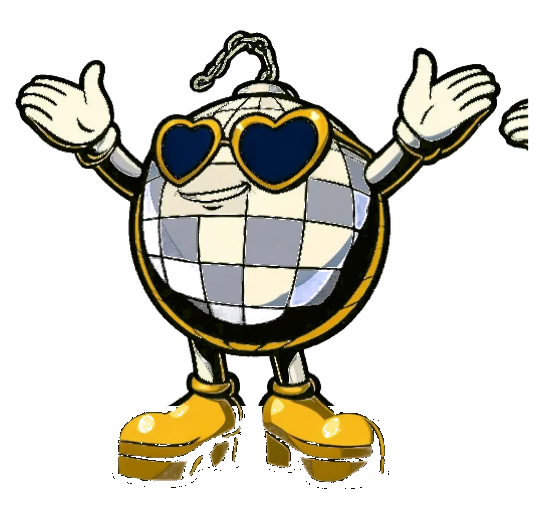
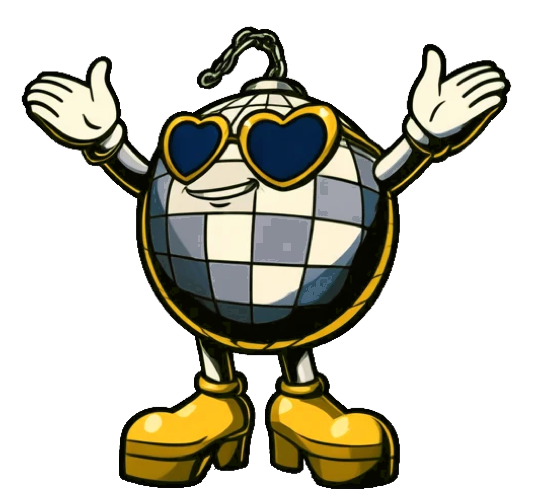
Mira : détourage par remplissage (plus de trous dans la boule ni les chaussures), ombres retirées, couleurs alignées sur la frame 0

Changed region(s): [[0.03, 0.0303, 0.9888, 1.0]]

diff --git a/tools/asset_prep/Main.cpp b/tools/asset_prep/Main.cpp
@@ -26,6 +26,14 @@
 // hueShift degrees, its saturation and brightness scaled — a character drawn
 // blue brought to the plugin's own colour; outlines, whites, creams untouched.
 //
+// --flood-key (with --key-flat): only the background reached from the cell's
+// border (and enclosed patches of plain background, --pocket-min px and more)
+// is keyed; the rest is the character, opaque, whatever its colour (a dark
+// drawing on a dark background keeps its pixels). --drop-ground-shadow
+// <hueFrom>,<hueTo>: the shadows reached go (dark, saturated, in that hue
+// range). --match-colours: each frame's gold / deep blue / cool greys /
+// creams brought to the first frame's. --contact-magenta: holes show.
+//
 // --drop-hue <hueFrom>,<hueTo>,<minSat>,<bottomFraction>: in the bottom
 // fraction of each frame, every pixel whose hue lies in [hueFrom, hueTo] with
 // at least minSat saturation becomes transparent, and so does every dark
@@ -34,6 +42,7 @@
 // draws its own.
 
 #include <juce_graphics/juce_graphics.h>
+#include <array>
 #include <iostream>
 
 namespace
@@ -73,34 +82,142 @@ juce::Image keyGreen (const juce::Image& src)
 /** Keys out a flat background colour (any hue): distance in RGB from `bg`;
     below `lo` transparent, above `hi` opaque, soft in between (keeps soft
     ground shadows as translucency). */
+int pocketMinPixels = 80;  // --pocket-min <n>: an enclosed patch of plain background this big (or more) is keyed too
+bool floodKey = false;      // --flood-key: only the background reached from the frame's border is keyed (see keyColour)
+bool dropGroundShadow = false; // --drop-ground-shadow <hueFrom>,<hueTo>: with --flood-key, the ground shadows go (the plugin draws its own):
+float shadowHueFrom = 0.0f, shadowHueTo = 0.0f; // background-tinted ones, and dark saturated ones of this hue range (degrees)
+
 juce::Image keyColour (const juce::Image& src, juce::Colour bg, float lo = 34.0f, float hi = 78.0f)
 {
     juce::Image out (juce::Image::ARGB, src.getWidth(), src.getHeight(), true);
     const juce::Image::BitmapData in (src, juce::Image::BitmapData::readOnly);
     juce::Image::BitmapData dst (out, juce::Image::BitmapData::writeOnly);
-    for (int y = 0; y < src.getHeight(); ++y)
-        for (int x = 0; x < src.getWidth(); ++x)
+    const int w = src.getWidth(), h = src.getHeight();
+    auto distance = [&in, bg] (int x, int y)
+    {
+        const auto c = in.getPixelColour (x, y);
+        const float dr = (float) c.getRed() - (float) bg.getRed(), dg = (float) c.getGreen() - (float) bg.getGreen(), db = (float) c.getBlue() - (float) bg.getBlue();
+        return std::sqrt (dr * dr + dg * dg + db * db);
+    };
+    // Ground shadows / painted strokes (background-hued, darker, desaturated)
+    auto isShadow = [bg] (juce::Colour c)
+    {
+        const float lumC = 0.3f * c.getRed() + 0.59f * c.getGreen() + 0.11f * c.getBlue();
+        const float lumB = 0.3f * bg.getRed() + 0.59f * bg.getGreen() + 0.11f * bg.getBlue();
+        float hueDiff = std::abs (c.getHue() - bg.getHue());
+        hueDiff = juce::jmin (hueDiff, 1.0f - hueDiff);
+        return lumC < lumB && hueDiff < 0.14f && c.getSaturation() < 0.45f;
+    };
+    // --flood-key: the background is what can be reached from the border
+    // through background-like pixels (close to it, or its shadows), plus the
+    // enclosed pockets of plain background (between an arm and the body).
+    // Everything else is the character, opaque whatever its colour: a dark
+    // drawing on a dark background (slate facets on dark green) keeps every
+    // pixel.
+    std::vector<char> reach;
+    if (floodKey)
+    {
+        reach.assign ((size_t) (w * h), 0);
+        auto groundShadow = [] (juce::Colour c)
+        {
+            const float hue = c.getHue() * 360.0f;
+            return dropGroundShadow && hue >= shadowHueFrom && hue <= shadowHueTo && c.getSaturation() > 0.3f && c.getBrightness() < 0.3f;
+        };
+        // (a near-black pixel is the drawing's outline, whatever its tint: never background)
+        auto passable = [&] (int x, int y)
         {
             const auto c = in.getPixelColour (x, y);
-            const float dr = (float) c.getRed() - (float) bg.getRed(), dg = (float) c.getGreen() - (float) bg.getGreen(),
-                        db = (float) c.getBlue() - (float) bg.getBlue();
-            const float d = std::sqrt (dr * dr + dg * dg + db * db);
+            return distance (x, y) < hi || (isShadow (c) && c.getBrightness() > 0.15f) || groundShadow (c);
+        };
+        std::vector<int> stack;
+        auto flood = [&] (std::vector<int>& seeds)
+        {
+            while (! seeds.empty())
+            {
+                const int i = seeds.back();
+                seeds.pop_back();
+                const int x = i % w, y = i / w;
+                for (auto [nx, ny] : { std::pair { x + 1, y }, std::pair { x - 1, y }, std::pair { x, y + 1 }, std::pair { x, y - 1 } })
+                    if (nx >= 0 && ny >= 0 && nx < w && ny < h && ! reach[(size_t) (ny * w + nx)] && passable (nx, ny))
+                    {
+                        reach[(size_t) (ny * w + nx)] = 1;
+                        seeds.push_back (ny * w + nx);
+                    }
+            }
+        };
+        for (int x = 0; x < w; ++x)
+            for (int y : { 0, h - 1 })
+                if (passable (x, y) && ! reach[(size_t) (y * w + x)]) { reach[(size_t) (y * w + x)] = 1; stack.push_back (y * w + x); }
+        for (int y = 0; y < h; ++y)
+            for (int x : { 0, w - 1 })
+                if (passable (x, y) && ! reach[(size_t) (y * w + x)]) { reach[(size_t) (y * w + x)] = 1; stack.push_back (y * w + x); }
+        flood (stack);
+        // enclosed pockets: a patch of plain background (very close to it, 80 px and more)
+        std::vector<char> seen ((size_t) (w * h), 0);
+        for (int y = 0; y < h; ++y)
+            for (int x = 0; x < w; ++x)
+            {
+                const int i = y * w + x;
+                if (reach[(size_t) i] || seen[(size_t) i] || distance (x, y) >= 22.0f)
+                    continue;
+                std::vector<int> comp { i }, todo { i };
+                seen[(size_t) i] = 1;
+                while (! todo.empty())
+                {
+                    const int j = todo.back();
+                    todo.pop_back();
+                    const int jx = j % w, jy = j / w;
+                    for (auto [nx, ny] : { std::pair { jx + 1, jy }, std::pair { jx - 1, jy }, std::pair { jx, jy + 1 }, std::pair { jx, jy - 1 } })
+                        if (nx >= 0 && ny >= 0 && nx < w && ny < h && ! seen[(size_t) (ny * w + nx)] && ! reach[(size_t) (ny * w + nx)] && distance (nx, ny) < 22.0f)
+                        {
+                            seen[(size_t) (ny * w + nx)] = 1;
+                            comp.push_back (ny * w + nx);
+                            todo.push_back (ny * w + nx);
+                        }
+                }
+                if (std::getenv ("ASSET_PREP_POCKETS") != nullptr && comp.size() >= 80)
+                {
+                    int x0 = w, y0 = h, x1 = 0, y1 = 0;
+                    for (int j : comp) { x0 = juce::jmin (x0, j % w); x1 = juce::jmax (x1, j % w); y0 = juce::jmin (y0, j / w); y1 = juce::jmax (y1, j / w); }
+                    std::cerr << "pocket " << comp.size() << " px at " << x0 << "," << y0 << " - " << x1 << "," << y1 << " (cell " << w << "x" << h << ")\n";
+                }
+                if (comp.size() >= (size_t) pocketMinPixels)
+                {
+                    for (int j : comp)
+                        reach[(size_t) j] = 1;
+                    flood (comp);
+                }
+            }
+    }
+    for (int y = 0; y < h; ++y)
+        for (int x = 0; x < w; ++x)
+        {
+            const auto c = in.getPixelColour (x, y);
+            if (floodKey && ! reach[(size_t) (y * w + x)])
+            {
+                dst.setPixelColour (x, y, c); // the character
+                continue;
+            }
+            if (floodKey && dropGroundShadow)
+            {
+                const float hue = c.getHue() * 360.0f;
+                if (hue >= shadowHueFrom && hue <= shadowHueTo && c.getSaturation() > 0.3f && c.getBrightness() < 0.3f)
+                    continue;
+            }
+            const float d = distance (x, y);
             const float alpha = juce::jlimit (0.0f, 1.0f, (d - lo) / (hi - lo));
             if (alpha <= 0.0f)
                 continue;
-            // Ground shadows / painted strokes (background-hued, darker,
-            // desaturated): neutral translucent shadow instead of tinted paint
+            // shadows: a neutral translucent shadow instead of tinted paint (or nothing)
+            if (isShadow (c))
             {
+                if (floodKey && dropGroundShadow)
+                    continue;
                 const float lumC = 0.3f * c.getRed() + 0.59f * c.getGreen() + 0.11f * c.getBlue();
                 const float lumB = 0.3f * bg.getRed() + 0.59f * bg.getGreen() + 0.11f * bg.getBlue();
-                float hueDiff = std::abs (c.getHue() - bg.getHue());
-                hueDiff = juce::jmin (hueDiff, 1.0f - hueDiff);
-                if (lumC < lumB && hueDiff < 0.14f && c.getSaturation() < 0.45f)
-                {
-                    const float k = lumC / juce::jmax (1.0f, lumB);
-                    dst.setPixelColour (x, y, juce::Colours::black.withAlpha (juce::jlimit (0.0f, 0.55f, (1.0f - k) * 1.3f)));
-                    continue;
-                }
+                const float k = lumC / juce::jmax (1.0f, lumB);
+                dst.setPixelColour (x, y, juce::Colours::black.withAlpha (juce::jlimit (0.0f, 0.55f, (1.0f - k) * 1.3f)));
+                continue;
             }
             if (alpha >= 1.0f)
             {
@@ -458,6 +575,42 @@ juce::Image eraseGridLines (const juce::Image& src, juce::Colour bg)
     return img;
 }
 
+/** --flood-key: specks left on the background (texture, a shadow's rim): opaque
+    regions under `minPixels` go. */
+void dropSpecks (juce::Image& img, int minPixels)
+{
+    const int w = img.getWidth(), h = img.getHeight();
+    juce::Image::BitmapData d (img, juce::Image::BitmapData::readWrite);
+    std::vector<char> seen ((size_t) (w * h), 0);
+    for (int start = 0; start < w * h; ++start)
+    {
+        if (seen[(size_t) start] || d.getPixelColour (start % w, start / w).getAlpha() <= 24)
+            continue;
+        std::vector<int> comp { start }, todo { start };
+        seen[(size_t) start] = 1;
+        while (! todo.empty())
+        {
+            const int j = todo.back();
+            todo.pop_back();
+            const int jx = j % w, jy = j / w;
+            for (int dy = -1; dy <= 1; ++dy)
+                for (int dx = -1; dx <= 1; ++dx)
+                {
+                    const int nx = jx + dx, ny = jy + dy;
+                    if (nx >= 0 && ny >= 0 && nx < w && ny < h && ! seen[(size_t) (ny * w + nx)] && d.getPixelColour (nx, ny).getAlpha() > 24)
+                    {
+                        seen[(size_t) (ny * w + nx)] = 1;
+                        comp.push_back (ny * w + nx);
+                        todo.push_back (ny * w + nx);
+                    }
+                }
+        }
+        if ((int) comp.size() < minPixels)
+            for (int j : comp)
+                d.setPixelColour (j % w, j / w, juce::Colours::transparentBlack);
+    }
+}
+
 /** Cuts cell `index` (row by row) of a cols × rows sheet and keys it. */
 Frame cutFrame (const juce::Image& sheet, int cols, int rows, int index)
 {
@@ -488,6 +641,11 @@ Frame cutFrame (const juce::Image& sheet, int cols, int rows, int index)
         if (despill)
             despillTowards (f.image, keyFlatBackground ? sampleBackground (sheet) : juce::Colour (0xff00ff00));
         keepMainBand (f.image);
+        if (floodKey)
+        {
+            dropEdgeFragments (f.image); // (a neighbour's hand cut by the cell border)
+            dropSpecks (f.image, 400);
+        }
     }
     f.box = opaqueBounds (f.image);
     f.anchorX = headCentreX (f.image, f.box);
@@ -517,6 +675,15 @@ int main (int argc, char** argv)
     const int targetHeight = argInt (args, "--height", 560);
     keyFlatBackground = args.contains ("--key-flat");
     despill = args.contains ("--despill");
+    floodKey = args.contains ("--flood-key");
+    pocketMinPixels = argInt (args, "--pocket-min", 80);
+    if (const int si = args.indexOf ("--drop-ground-shadow"); si >= 0 && si + 1 < args.size())
+    {
+        const auto v = juce::StringArray::fromTokens (args[si + 1], ",", "");
+        dropGroundShadow = v.size() == 2;
+        shadowHueFrom = v[0].getFloatValue();
+        shadowHueTo = v[1].getFloatValue();
+    }
     autoCells = args.contains ("--auto-cells");
     cellInset = argInt (args, "--inset", 0);
     eraseGrid = args.contains ("--erase-grid");
@@ -536,7 +703,8 @@ int main (int argc, char** argv)
         outDir = cwd.getChildFile (args[0]);
         for (int i = 1; i < args.size(); ++i)
         {
-            if (args[i] == "--key-flat" || args[i] == "--despill" || args[i] == "--auto-cells" || args[i] == "--scale-to-first" || args[i] == "--erase-grid")
+            if (args[i] == "--key-flat" || args[i] == "--despill" || args[i] == "--auto-cells" || args[i] == "--scale-to-first" || args[i] == "--erase-grid" || args[i] == "--contact-magenta"
+                || args[i] == "--flood-key" || args[i] == "--match-colours")
                 continue;
             if (args[i].startsWith ("--"))
             {
@@ -712,6 +880,69 @@ int main (int argc, char** argv)
                     }
             }
         }
+        // --match-colours: every frame's main colours brought to the first frame's
+        // (sheets drawn apart come out a little different: a warmer gold, greyer
+        // facets). Classes: the gold (shoes, rim, frames), the deep blue (lenses),
+        // the cool greys (facets), the creams (gloves, light facets); per class
+        // the mean hue / saturation / brightness of this frame against frame 0,
+        // each pixel of the class moved by the difference (hue) or the ratio.
+        if (args.contains ("--match-colours"))
+        {
+            struct Stat { double h = 0, s = 0, v = 0; int n = 0; };
+            auto classOf = [] (juce::Colour c) -> int
+            {
+                if (c.getAlpha() < 200) return -1;
+                const float hue = c.getHue() * 360.0f, sat = c.getSaturation(), bri = c.getBrightness();
+                if (hue >= 30.0f && hue <= 62.0f && sat > 0.45f && bri > 0.3f) return 0; // gold
+                if (hue >= 205.0f && hue <= 250.0f && sat > 0.45f && bri > 0.15f) return 1; // lenses
+                if (hue >= 190.0f && hue <= 240.0f && sat <= 0.45f && sat > 0.08f && bri > 0.2f && bri < 0.8f) return 2; // facets
+                if (bri >= 0.75f && sat < 0.3f) return 3; // creams
+                return -1;
+            };
+            auto stats = [&] (const juce::Image& img)
+            {
+                std::array<Stat, 4> st {};
+                const juce::Image::BitmapData d (img, juce::Image::BitmapData::readOnly);
+                for (int y = 0; y < img.getHeight(); ++y)
+                    for (int x = 0; x < img.getWidth(); ++x)
+                    {
+                        const auto c = d.getPixelColour (x, y);
+                        const int k = classOf (c);
+                        if (k < 0) continue;
+                        st[(size_t) k].h += c.getHue(); st[(size_t) k].s += c.getSaturation(); st[(size_t) k].v += c.getBrightness(); ++st[(size_t) k].n;
+                    }
+                for (auto& t : st)
+                    if (t.n > 0) { t.h /= t.n; t.s /= t.n; t.v /= t.n; }
+                return st;
+            };
+            static std::array<Stat, 4> ref;
+            if (i == 0)
+                ref = stats (frame);
+            else
+            {
+                const auto st = stats (frame);
+                juce::Image::BitmapData d (frame, juce::Image::BitmapData::readWrite);
+                for (int y = 0; y < h; ++y)
+                    for (int x = 0; x < w; ++x)
+                    {
+                        const auto c = d.getPixelColour (x, y);
+                        const int k = classOf (c);
+                        if (k < 0 || st[(size_t) k].n < 50 || ref[(size_t) k].n < 50) continue;
+                        const auto& a = st[(size_t) k];
+                        const auto& r = ref[(size_t) k];
+                        // (limited: a pose shows more or less of a shaded side, the means move a little by themselves)
+                        float hue = c.getHue() + (float) juce::jlimit (-10.0 / 360.0, 10.0 / 360.0, r.h - a.h);
+                        hue -= std::floor (hue);
+                        const float sat = juce::jlimit (0.0f, 1.0f, c.getSaturation() * (float) juce::jlimit (0.8, 1.25, r.s / juce::jmax (1.0e-3, a.s)));
+                        const float bri = juce::jlimit (0.0f, 1.0f, c.getBrightness() * (float) juce::jlimit (0.85, 1.15, r.v / juce::jmax (1.0e-3, a.v)));
+                        d.setPixelColour (x, y, juce::Colour::fromHSV (hue, sat, bri, c.getFloatAlpha()));
+                    }
+                if (std::getenv ("ASSET_PREP_POCKETS") != nullptr)
+                    for (int k = 0; k < 4; ++k)
+                        std::cerr << "frame " << i << " class " << k << ": hue " << 360.0 * (st[(size_t) k].h - ref[(size_t) k].h) << " deg, sat x"
+                                  << ref[(size_t) k].s / juce::jmax (1.0e-3, st[(size_t) k].s) << ", bri x" << ref[(size_t) k].v / juce::jmax (1.0e-3, st[(size_t) k].v) << "\n";
+            }
+        }
         const auto file = outDir.getChildFile ("mascot_" + juce::String ((int) i) + ".png");
         juce::FileOutputStream os (file);
         if (! png.writeImageToStream (frame, os))
@@ -730,7 +961,7 @@ int main (int argc, char** argv)
         const int nRows = ((int) written.size() + perRow - 1) / perRow;
         juce::Image sheet (juce::Image::RGB, perRow * cw, nRows * (ch + 18), true);
         juce::Graphics g (sheet);
-        g.fillAll (juce::Colour (0xff36363c));
+        g.fillAll (juce::Colour (args.contains ("--contact-magenta") ? 0xffff00ff : 0xff36363c)); // (magenta: holes in the alpha show)
         for (size_t i = 0; i < written.size(); ++i)
         {
             const int x = (int) (i % perRow) * cw, y = (int) (i / perRow) * (ch + 18);
